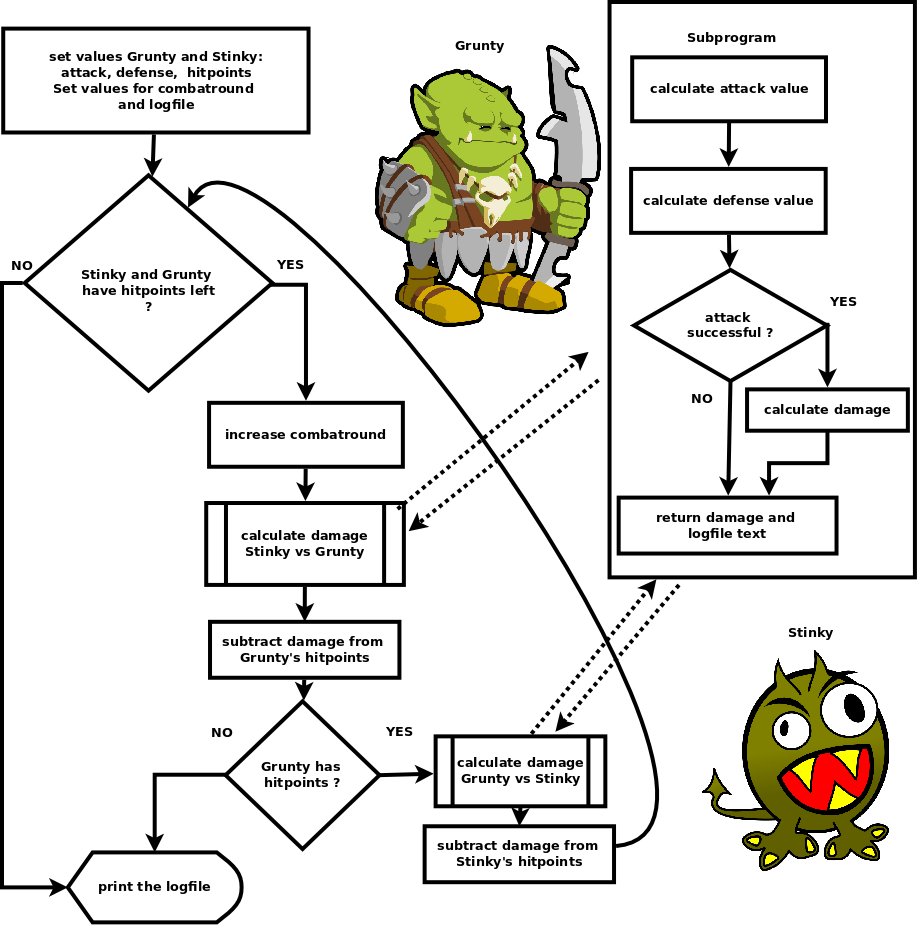
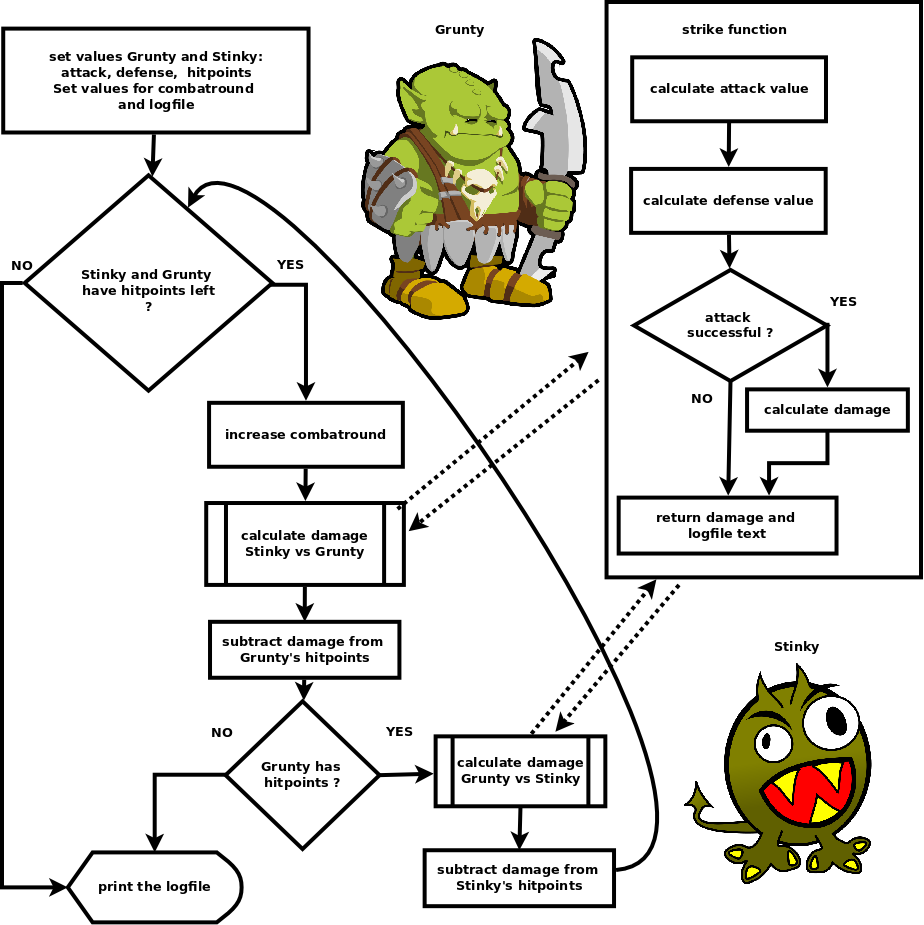
typos corrected (thanks to Sven)

diff --git a/goblindice001.rst b/goblindice001.rst
@@ -38,25 +38,25 @@ But not every strike is the same for Grunty. Sometimes he has luck and performs 
 
 The resulting attack_value is now hopefully greater than the base attack value. Let it compare to a similar calculated defense value to see if Grunty scored a hit. 
 
-Grunty is fighting against a wooden, unmovable testdummy. The testdummy is very easy to hit: We give it a extreme low defense value of 1, reflecting instrinct defense abilitys like diffictult-to-hit geometry and shape.
+Grunty is fighting against a wooden, unmovable testdummy. The testdummy is very easy to hit: We give it an extreme low defense value of 1, reflecting instrinct defense abilities like difficult-to-hit geometry and shape.
 
 .. code-block:: python
 
        base_defense = 1
 
-In actual combat, sometimes even an heap of wood can get lucky... not by actual moving, but maybe the sun is in his rear, blending the attacker, maybe the wind and the rain work in his favor. So to calcualte actual combat performance, let us add some random value on top of the (low) base defense value, but less than for the attacker. Let's say only rolling one die is allowed to roll and added to the base defense.
+In actual combat, sometimes even an heap of wood can get lucky... not by actual moving, but maybe the sun is behind him, blinding the attacker, maybe the wind and the rain work in his favor. So to calculate actual combat performance, some random value is added on top of the (low) base defense value, but less than for the attacker. It this example rolling only one die is allowed to be added to the base defense.
 
 .. code-block:: python
 
        defense_value = base_defense + random_integer_value
 
 The combat runs in several combat rounds:
-In each combat round, the computer calculates the attack and defense values (using his random generator functions) and compares those two. If the attacking value is greater than the defending value, Grunty managed a hit on the testdummy. If both values are equal, Grunty manages a "glancing blow", a hit that does no damage. If the attack value is greater than the defense value, damage is calculated as an random number between 0 and 10. With dice, this could be calculated by rolling 2 dice and subtracting 2 from the sum of eyes.
+In each combat round, the computer calculates the attack and defense values (using his random generator functions) and compares those two. If the attacking value is greater than the defending value, Grunty managed a hit on the testdummy. If both values are equal, Grunty manages a "glancing blow", a hit that does no damage. If the attack value is greater than the defense value, damage is calculated as a random number between 0 and 10. With dice, this could be calculated by rolling 2 dice and subtracting 2 from the sum of pips.
 
 .. code-block:: python
        damage = random_integer_value
 
-The damage is then substracted from the "Hitpoints" (also an integer number) of the testdummy, and the whole process is reapeated until the testdummy has no hitpoints left.
+The damage is then substracted from the "Hitpoints" (also an integer number) of the testdummy, and the whole process is repeated until the testdummy has no hitpoints left.
 
 The fresh, undamaged testdummy must start with an given number of hitpoints, say 200 hiptoints. Also it is interesting to know how many combat rounds Grunty needs to destroy the testdummy, so a combat round counter is needed and set to 0 before the game. 
 
@@ -66,7 +66,7 @@ The fresh, undamaged testdummy must start with an given number of hitpoints, say
      combat_round_counter = 0    
 
 
-Those instructions above are already a program (that is a set of instructions). To simulate Gruntys combat performance only those instructions, some dice and paper and pen to keep track of combat rounds and hitpoints are needed.
+Those instructions above are already a program (that is a set of instructions). To simulate Grunty's combat performance only those instructions, some dice and paper and pen to keep track of combat rounds and hitpoints are needed.
 
 To let a computer do this task instead, knowlede of an additional  set of commands and concepts is necessary:
 
@@ -99,8 +99,8 @@ prerequesites
   * recommended:
   
     * python-friendly IDE like IDLE, Geany etc.
-    * ability to read and type (blind typing) using the 10 finger system, instead of copy and paste
-    * python shell to lookup commands
+    * ability to read and type (touch typing) using the 10 finger system, instead of copy and paste
+    * python shell to lookup commands, like IDLE or Ipython
     * executing python with filename as parameter from the command line ``python3 goblindice001.py``
     
 source code
@@ -137,19 +137,19 @@ Some elements in this code may need explaining:
 =========== ============================== =========================================================================================================================================================================================================================================================================================================================================================
 line number term                           explanation
 =========== ============================== =========================================================================================================================================================================================================================================================================================================================================================
- 1 - 13     :term:`docstring`              Some multi-line text :term:`string` insinde triple-quotes ``"""``. If a docstring is the first statement in a file it is automatically stored in the gloabel variable ``__doc__``. Docstrings are interpreted by python as something interested for humans only, like a :term:`comment`. Docstrings are not necessary, but nice to have.
-14          ``import random``              To make use of any :term:`functon` in pythons random module, it is necessary to import this module first. Later in this code functions of the random module will use the prefix ``random.``.
+ 1 - 13     :term:`docstring`              Some multi-line text :term:`string` insinde triple-quotes ``"""``. If a docstring is the first statement in a file it is automatically stored in the global variable ``__doc__``. Docstrings are interpreted by python as something interested for humans only, like a :term:`comment`. Docstrings are not necessary, but nice to have.
+14          ``import random``              To make use of any :term:`functon` in python's random module, it is necessary to import this module first. Later in this code functions of the random module will use the prefix ``random.``.
 16          ``comment``                    Everything behind a ``#`` sign in python is a comment. Comments are useful for human eyes only and always ignored by Python.
 17          ``assign``, ``inline comment`` The value of 3 is assigned to the variable ``grunty_attack``. (read it from right to left).  Note that the part right from the ``#`` sign is also a comment.
-26          ``loop``, ``expresssion``      The ``while`` ``keyword`` indicates, together with the colon at the end of this line, the beginning of an ``indented code block``. This code block is reapeated as long as the ``expression``right from ``while``remains ``True``.
+26          ``loop``, ``expresssion``      The ``while`` ``keyword`` indicates, together with the colon at the end of this line, the beginning of an ``indented code block``. This code block is repeated as long as the ``expression``right from ``while``remains ``True``.
 27          ``increment``                  The value of the the ``variable`` ``combatround`` is incremented by 1. Because this is made even before some combat values are calculated, ``combatround`` was set to 0 before the while loop.
 28          ``strings and numbers``        Another textstring is appended to the textstring variable ``logfile``. The starting new line sign (``\n``) is a so called ``escaped character``. Because ``combatround`` is of type integer, it can *not* be appended to the textstring ``logfile``. Therefore, ''combatround'' must first be converted into a string using the ``str()`` function.
 29          ``format mini language``       Using Format String Syntax instead of the ``str`` function, the curly brackets are replaced by python with the expression inside the round brackets of ``.format()``. See https://docs.python.org/2/library/string.html
 30          ``random.randint()``           The ``random.randint()`` function generates a (nearly) random integer between (including) the first (lower) and the second (higher) number in the round brackets. Writing instead ``random.randint(1,6)*2`` or ``random.randint(2,12)`` would be similar, but not the same. See next page for more on this topic.
 32          ``conditional``, ``if``        Like the ``while`` keyword, the ``if`` keyword need an expression and a colon and is followed by an ``idented code block``. This code block will only be executed if the  ``expression`` is ``True``. Note that it is allowed to write an inline-comment after the colon with the ``#`` sign. For python, the comment is ignored and the line ends with the colon.
-33 - 34     ``strings``                    Note that the string in line 33 ends with an space and the string in line 34 does not begin with a new line. In fact, line 33 and line 34 can be written in lone (very long) line. In this case, two seperate lines were written for layout reasons, to make no code line longer than 72 characters. See http://legacy.python.org/dev/peps/pep-0008/
+33 - 34     ``strings``                    Note that the string in line 33 ends with an space and the string in line 34 does not begin with a new line. In fact, line 33 and line 34 can be written in one (very long) line. In this case, two seperate lines were written for layout reasons, to make no code line longer than 72 characters. See http://legacy.python.org/dev/peps/pep-0008/
 34          ``format mini language``       The first pair of curly brackets get replaced by the first value inside ``.format()``, the second pair of curly brackets get replaced by the second value inside ``.format()`` and so on.
-35          ``random.randint())``          Here, ``random.randint(2,12) could have be used instead, and would have resulted similar, bot not exact the same distribution of random values as this formular. See next page for more details.                          
+35          ``random.randint())``          Here, ``random.randint(2,12) could have been used instead, and would have resulted similary, but not exactly the same distribution of random values as this formula. See :ref: goblindice003 for more details.                          
 36          ``decrement``                  Like the increment, this line could have been written as: ``testdummy_hitpoints -= testdummy_hitpoints - damage``. But why type more than necessary?
 =========== ============================== =========================================================================================================================================================================================================================================================================================================================================================
 
@@ -158,13 +158,13 @@ pause
 =========== ============================== ================================================================================================================================================================================================================================================================================================================================================================
 line number term                           explanation
 =========== ============================== ================================================================================================================================================================================================================================================================================================================================================================
-38          ``elif``                       Each ``if`` code block can have many (including none) ``elif`` code blocks. Like the ``if`` keyword, the ``indented code block`` after elif will only be executed if the ``expression`` was False for all previous ``elif`` expressions as well as for the initial ``if`` and only if the actual expression (right of ``elif``) is ``True``. 
+38          ``elif``                       Each ``if`` code block can have many (including none) ``elif`` code blocks. Like the ``if`` keyword, the ``indented code block`` after elif will only be executed if the ``expression`` was False for all previous ``elif`` expressions as well as for the initial ``if`` and only if the current expression (right of ``elif``) is ``True``. 
 38          ``equal test``                 Please note that the `==` operator is used to *test for equality*. The `=` operator assigns values. 
 40          ``format mini language``       A special trick using ``.format()``: If the same variable is needed at several places inside a string, like in this case, it is possible to use the position number of the variable inside the curly bracket. Python always start counting with 0, so the first variable in the round brackets is referred as ``{0}``, the second variable as ``{1}`` and so on.
 41          ``else``                       If the ``if`` and all ``elif`` expressions are ``False``, the ``idented code block`` behind the ``else:`` keyword is executed. The ``else:`` keyword itself is optional and need no expression behind it. 
-44          ``indentation``                This line is *outside* the ``while block`` ! Take a close look at the previous line with the same indentation: It's line 26. That means that this line will only executed if the expression in line 26 becomes ``False``
-46          ``empty line``                 There is no specific reason to let this line empty: it's just to have the code pretty layouted. Python ignores empty lines.
-47          ``print()``                    The ``print()`` keyword can output any variable to the screen. Note that since python version 3, ``print`` need round brackets.
+44          ``indentation``                This line is *outside* the ``while block`` ! Take a close look at the previous line with the same indentation: It's line 26. That means that line 44 will only be  executed if the expression in line 26 becomes ``False``
+46          ``empty line``                 There is no specific reason to let this line empty: it’s just to have a pretty layout of code. Python ignores empty lines.
+47          ``print()``                    The ``print()`` keyword can output any variable to the screen. Note that since python version 3, ``print`` requires round brackets.
 =========== ============================== ================================================================================================================================================================================================================================================================================================================================================================
 
-next page: functions !
+next page:  functions! :ref: goblindice002 

diff --git a/goblindice002.rst b/goblindice002.rst
@@ -185,15 +185,11 @@ prerequesites
   * necessary:
   
     * python3 is installed
-    * text editor can save python files ( like `goblindice001.py`)  
-    * python3 interpreter can launch saved python file.
     
   * recommended:
   
     * python-friendly IDE like IDLE, Geany etc.
-    * ability to read and type (blind typing) using the 10 finger system, instead of copy and paste
-    * python shell to lookup commands
-    * executing python with filename as parameter from the command line ``python3 goblindice001.py``
+    * python shell to lookup commands, like idle or ipython
     
 source code
 -----------  
@@ -233,16 +229,16 @@ line number term                           explanation
 =========== ============================== ========================================================================================================================================================================================================================================================================================================================
  1 - 13     :term:`docstring`              Docstring insinde triple-quotes ``"""``.
 14          ``import random``              importing the random module to make the later use of the ``random.randint()`` function possible.
-17 - 28     assign start values            Those values are not global variables, but because they are defined before a function is called those values could be *read* (but not *manipulated*) inside a function.
-32          :term:`def`                    Define a functoin names ``strike``. This functions need 4 arguments (comma seperated) or it will not work.
-33 - 52     function body                  This `indented code block` belongs to the function and all variables declared here have a *local scope*. The code is basically identical with :ref:`goblindice001`
-39 - 40     multi-line line                A line of instructions for Python can stretch over multiple physical lines as long as the python interpreter understand that the lines belong togehter. In this case, the opening round bracket at the end of line 39 and the closing bracket at the end of line 40 indicate that this is for Python one very long line.
+17 - 28     assign start values            Those start values are no global variables, but because they are defined before a function is called those start values can be *read* (but *not* manipulated) inside a function.
+32          :term:`def`                    Define a functin named ``strike``. This functions need 4 arguments (comma seperated) or it will not work.
+33 - 52     function body                  This `indented code block` belongs to the function and all variables declared inside a function have *local scope*. The code inside the function is basically identical with :ref:`goblindice001`
+39 - 40     multi-line line                A line of instructions for Python can stretch over multiple physical lines as long as the python interpreter understand that the lines belong together. In this case, the opening round bracket at the end of line 39 and the closing bracket at the end of line 40 indicate that this is for Python one very long line.
 52          return values                  The strike function returns 2 comma seperated values.
-54          main loop                      From within this loop, the `strike` function will be called twice. Because Gruntys hitpoints are checked in line 64, it is only not really necessary to control Stinkys *and* Gruntys hitpoints at the beginning of this `while loop`. But in later versions the first strike order may not be so static.
+54          main loop                      From within this loop, the `strike` function will be called twice. Because Grunty's hitpoints are checked in line 64, it is only not really necessary to control Stinkys *and* Gruntys hitpoints at the beginning of this `while loop`. But in later versions, when introducing attack speed,  it may become necessary.
 60 - 61     functoin call                  Because the `strike` function returns two values, two variables are needed to be assigned with those return values. Note that because the opening round bracket at the end of line 60, line 60 and line 61 are for python one single line.
-64          loop control                   Grunty's hitpoints were last checked at the beginning of the while loop. Meanwhile, if Stinkys strike was sucessfull, Grunty has possible zero or less hitpoints and can not strike back. This is checked here, in the middle of the `while loop`.
-65          :term:`break`                  This ``break`` command will break out of the current `indented code block` and the Pyhton program will resume at the next line with the same indentation as the ``while`` command of line 54 (that is, no indentation): line 71
+64          loop control                   Grunty's hitpoints were last checked at the beginning of the while loop. Meanwhile, if Stinky's strike was sucessfull, Grunty has possible zero or less hitpoints and can not strike back. This is checked here, in the middle of the `while loop`.
+65          :term:`break`                  This ``break`` command will break out of the current `indented code block` and the Pyhton program will resume at the next line with the same indentation (that is, no indentation) as the ``while`` command of line 54: line 71
 72 - 75     `if else`                      In contrast to :ref:`goblindice001`, it is now not clear who the winner is so a new `if else` construct is necessary.
 =========== ============================== ========================================================================================================================================================================================================================================================================================================================
 
-next page: recursion !
+next page: recursion ! :ref: goblindice003
